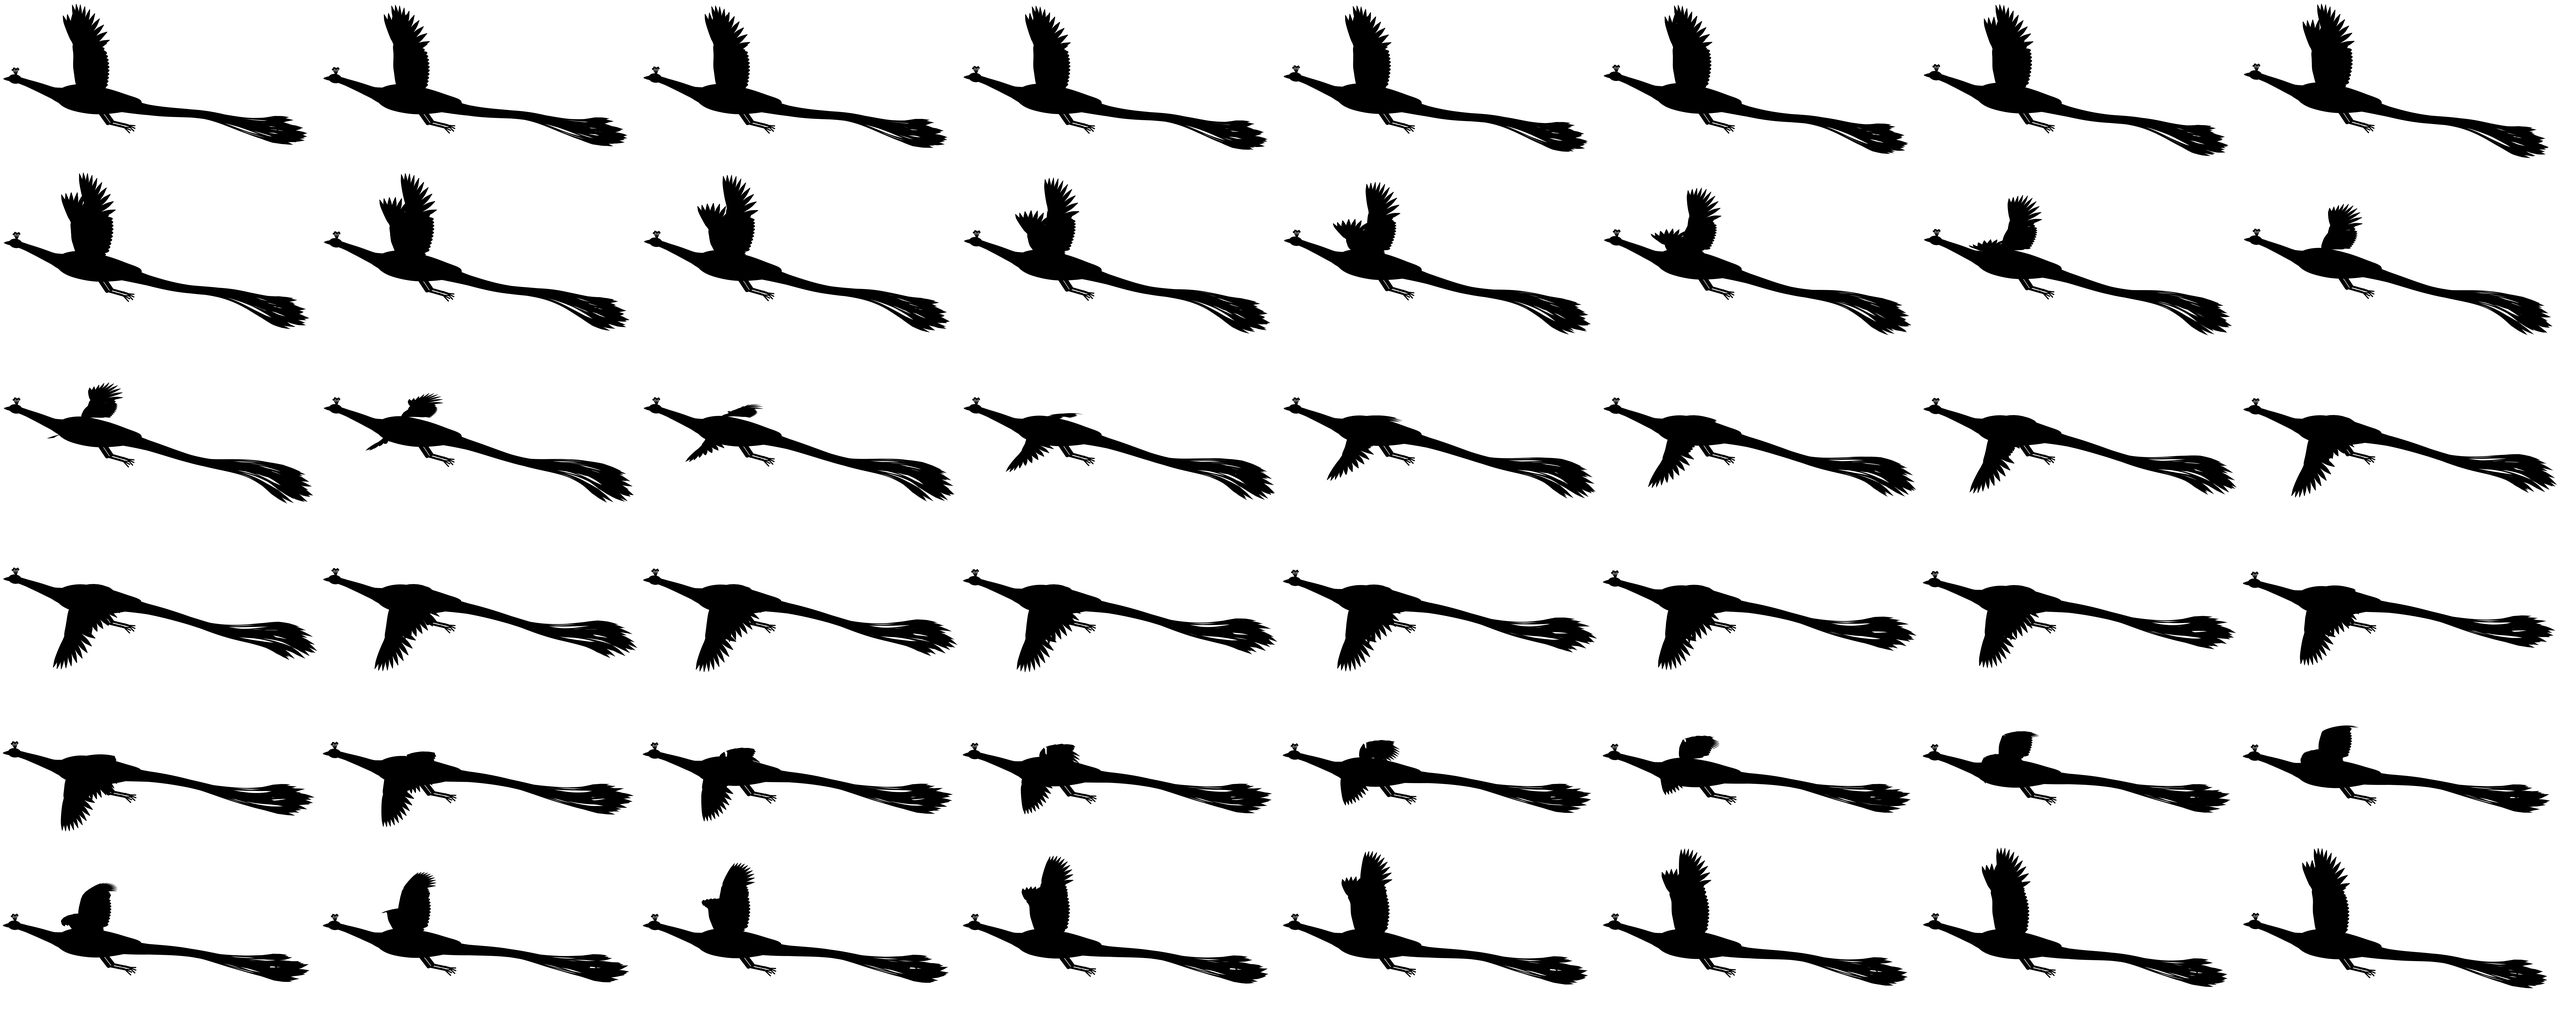
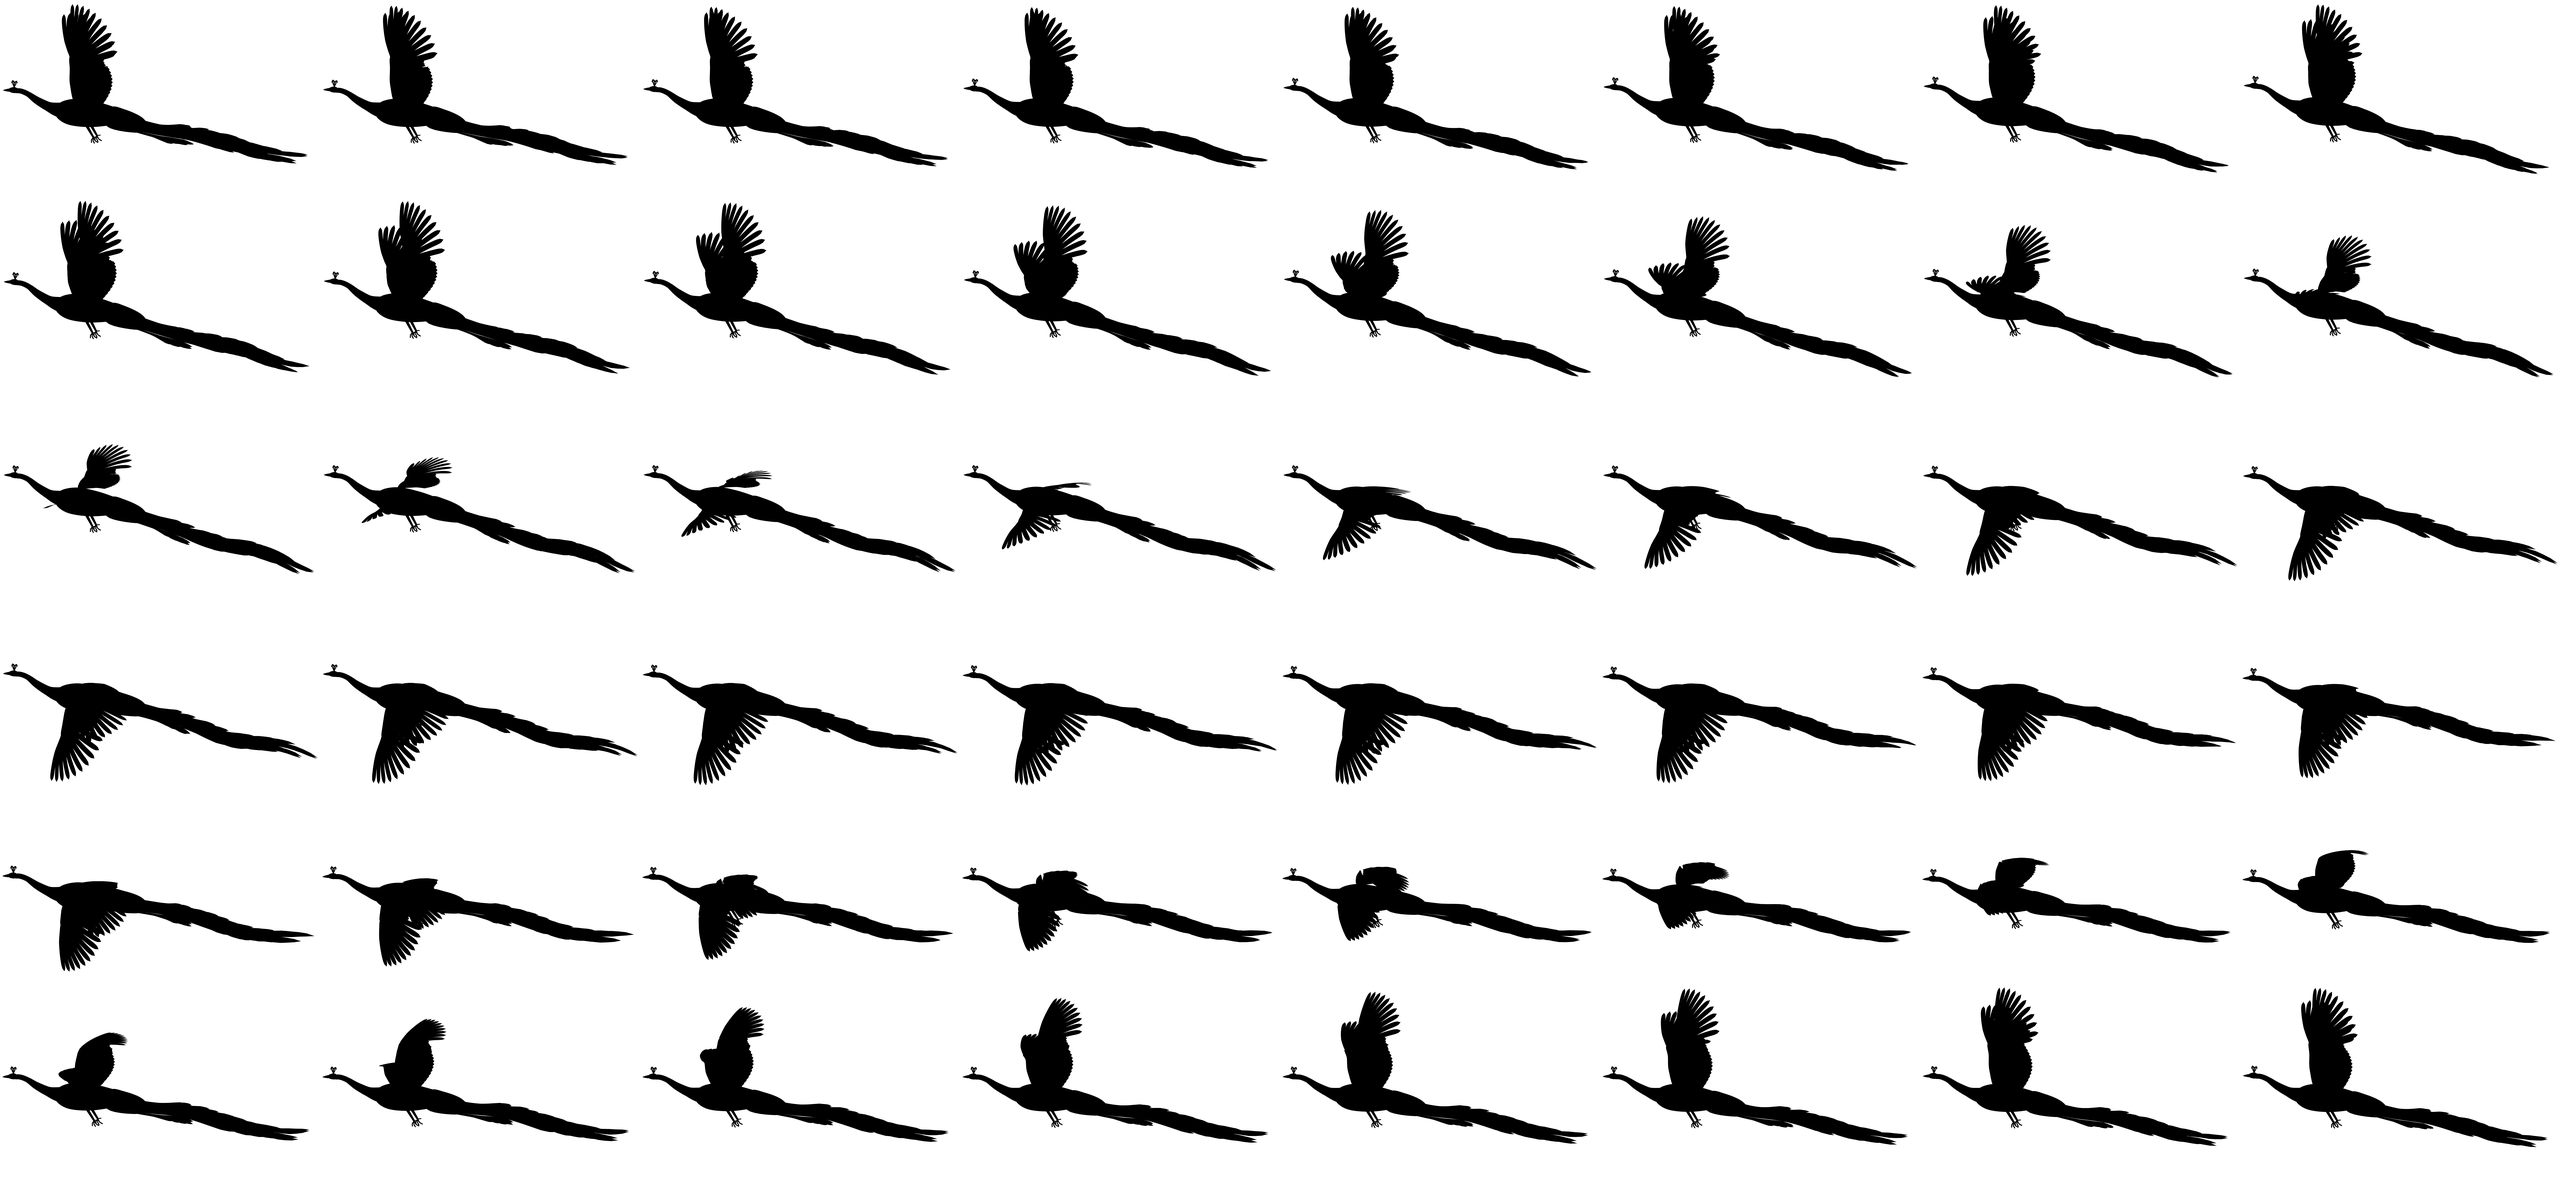
Two skies: a truer peacock, drawn from the sculpture reference
Rebuilt the silhouette against the flying-peacock sculpture: larger wings
of long, separate flight feathers with rounded tips that sweep back, a
row of scalloped coverts, a slender S-curved neck and small wedge head,
feet tucked under the belly, and a long drooping train built as a sheaf
of layered eyed feathers whose tips break the outline along its length.
Same 48-frame wingbeat and flexible train; sprite anchors updated.

Claude-Session: https://claude.ai/code/session_01CSbrhLeqyB8K3Qd8HFoKuK

diff --git a/index.html b/index.html
@@ -782,8 +782,8 @@ footer{padding:clamp(36px,7vh,80px) var(--gutter) clamp(46px,8vh,100px);display:
          against the night and ink-dark against the day, flipping at the cut. */
       var NF = 48, COLS = 8;
       var SM = Math.min(innerWidth, (screen && screen.width) || innerWidth) < 700;
-      var CW = SM ? 320 : 640, CH = SM ? 169 : 337;          /* one frame, sprite px */
-      var AX = SM ? 94.7 : 189.3, AY = SM ? 96.7 : 193.3;    /* the body, inside the frame */
+      var CW = SM ? 320 : 640, CH = SM ? 197 : 394;          /* one frame, sprite px */
+      var AX = SM ? 89.0 : 177.9, AY = SM ? 111.6 : 223.2;    /* the body, inside the frame */
       var sheet = new Image(), ready = false;
       var ink = document.createElement('canvas'), ig = ink.getContext('2d');
       var birds = [], drift = null, wait = 4000;
